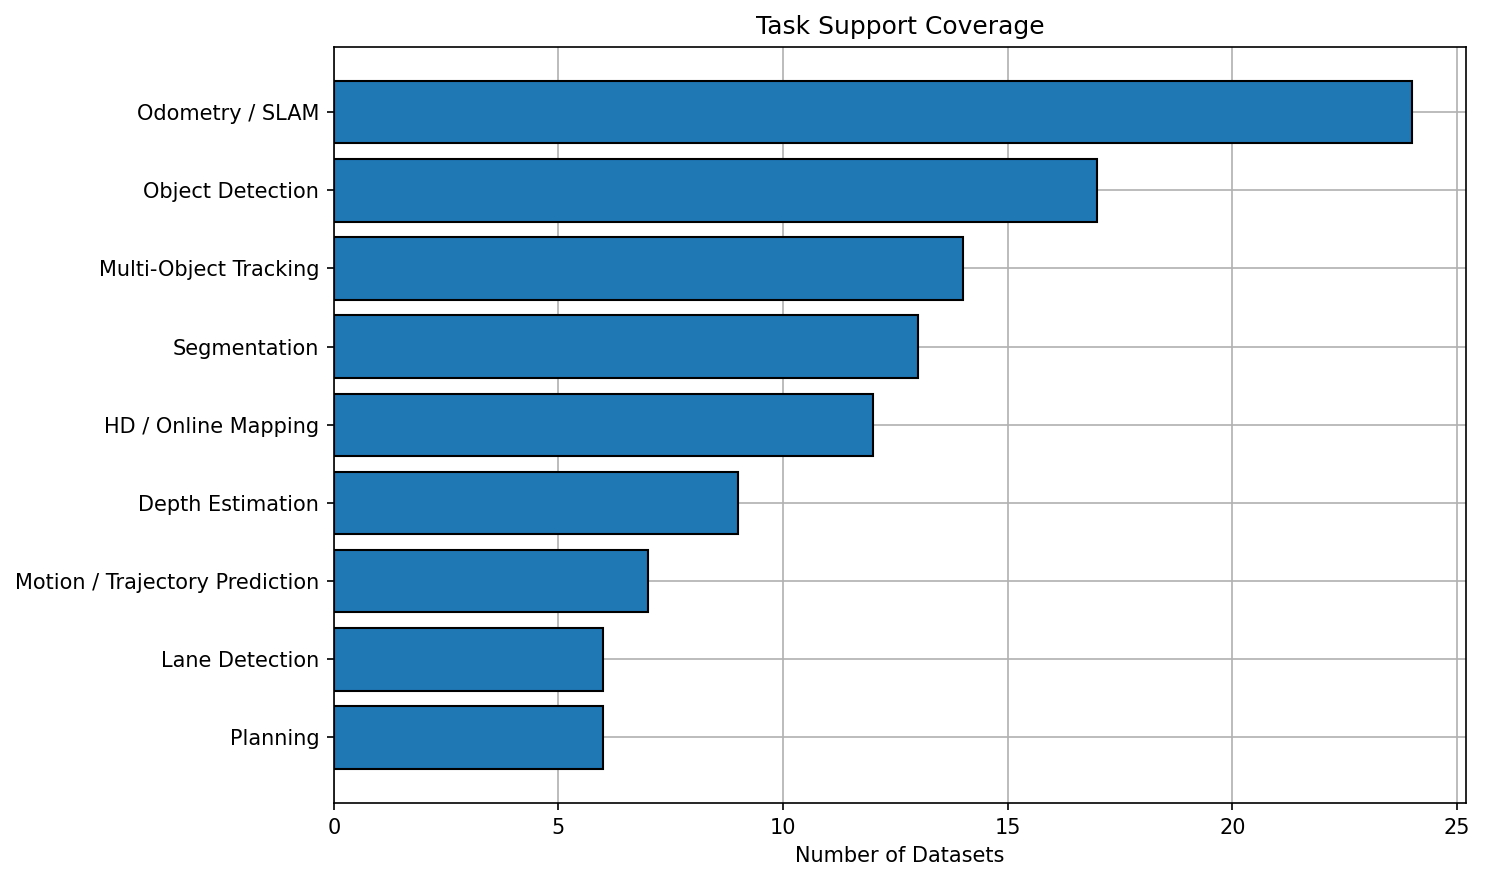
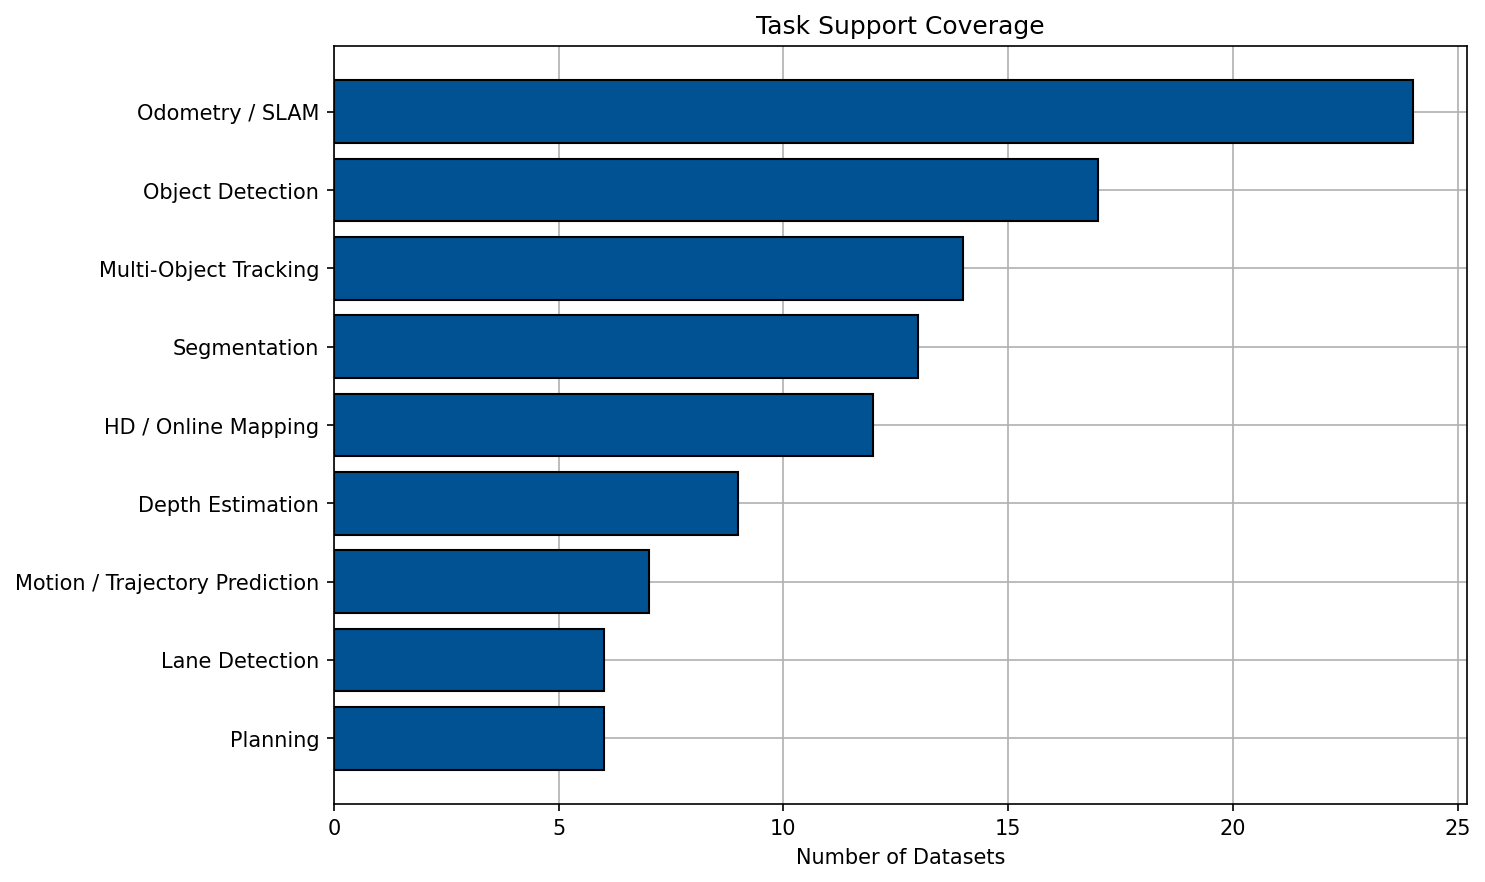
TUM Color (Total + Filtered)

diff --git a/dataset/filtered_dataset_analysis/07_lidar_beam.py b/dataset/filtered_dataset_analysis/07_lidar_beam.py
@@ -1,14 +1,13 @@
 import pandas as pd
 import matplotlib.pyplot as plt
-import os
+import os, sys
 from collections import Counter
+sys.path.append(os.path.join(os.path.dirname(os.path.abspath(__file__)), '..'))
+from tum_colors import TUM_SECONDARY
 
 BASE_DIR = os.path.dirname(os.path.abspath(__file__))
 df = pd.read_csv(os.path.join(BASE_DIR, 'filtered_dataset_cleaned.csv'))
 
-# Count each beam value across all LiDARs in all datasets
-# 0 = no LiDAR, excluded
-# Values like '32; 64' mean one dataset has two LiDARs with 32 and 64 beams
 beam_counts = Counter()
 for val in df['lidar_beam'].dropna():
     if val == '0':
@@ -19,11 +18,10 @@ for val in df['lidar_beam'].dropna():
             beam_counts[int(b)] += 1
 
 sorted_counts = dict(sorted(beam_counts.items()))
-
 labels = [str(k) for k in sorted_counts.keys()]
 
 plt.figure(figsize=(10, 6))
-plt.bar(labels, list(sorted_counts.values()), edgecolor='black')
+plt.bar(labels, list(sorted_counts.values()), edgecolor='black', color=TUM_SECONDARY['blue2'])
 plt.title('LiDAR Beam Count Distribution')
 plt.xlabel('Number of Beams')
 plt.ylabel('Count')
@@ -36,7 +34,3 @@ out = os.path.join(BASE_DIR, 'filtered_dataset_analysis_figures', '07_lidar_beam
 plt.savefig(out, dpi=150, bbox_inches='tight')
 plt.show()
 print(f'Saved → {out}')
-
-
-
-

diff --git a/dataset/filtered_dataset_analysis/08_temporal.py b/dataset/filtered_dataset_analysis/08_temporal.py
@@ -1,6 +1,8 @@
 import pandas as pd
 import matplotlib.pyplot as plt
-import os
+import os, sys
+sys.path.append(os.path.join(os.path.dirname(os.path.abspath(__file__)), '..'))
+from tum_colors import TUM_SECONDARY
 
 BASE_DIR = os.path.dirname(os.path.abspath(__file__))
 df = pd.read_csv(os.path.join(BASE_DIR, 'filtered_dataset_cleaned.csv'))
@@ -8,9 +10,15 @@ df = pd.read_csv(os.path.join(BASE_DIR, 'filtered_dataset_cleaned.csv'))
 counts = df['temporal'].value_counts().sort_index()
 labels = {0: 'Static', 1: 'Video'}
 names = [labels[k] for k in counts.index]
+pie_colors = [TUM_SECONDARY['light_gray'], TUM_SECONDARY['blue2']]
+DARK_COLORS = {TUM_SECONDARY['blue2']}
 
 plt.figure()
-plt.pie(counts.values, labels=names, autopct='%1.1f%%', wedgeprops={'edgecolor': 'black'}, colors=['C1', 'C0'])
+wedges, texts, autotexts = plt.pie(counts.values, labels=names, autopct='%1.1f%%',
+                                    colors=pie_colors,
+                                    wedgeprops={'edgecolor': 'black'})
+for i, autotext in enumerate(autotexts):
+    autotext.set_color('white' if pie_colors[i] in DARK_COLORS else 'black')
 plt.title('Temporal Coverage (Video vs Static)')
 plt.tight_layout()
 

diff --git a/dataset/filtered_dataset_analysis/09a_full_citation.py b/dataset/filtered_dataset_analysis/09a_full_citation.py
@@ -1,21 +1,24 @@
 import pandas as pd
 import matplotlib.pyplot as plt
-import os
+import os, sys
+sys.path.append(os.path.join(os.path.dirname(os.path.abspath(__file__)), '..'))
+from tum_colors import TUM_SECONDARY
 
 BASE_DIR = os.path.dirname(os.path.abspath(__file__))
 df = pd.read_csv(os.path.join(BASE_DIR, 'filtered_dataset_cleaned.csv'))
 df_sorted = df[['dataset', 'citation']].dropna().sort_values('citation')
 
 plt.figure(figsize=(15, 10))
-plt.barh(df_sorted['dataset'], df_sorted['citation'], edgecolor='black')
-plt.xscale('log')
-plt.title('Citation Count per Dataset (Log Scale)')
-plt.xlabel('Number of Citations (log)')
+plt.barh(df_sorted['dataset'], df_sorted['citation'],
+         edgecolor='black', color=TUM_SECONDARY['blue2'])
+plt.xlim(0, 22000)
+plt.title('Citation Count per Dataset')
+plt.xlabel('Number of Citations')
 plt.grid(True)
 plt.gca().set_axisbelow(True)
 plt.tight_layout()
 
-out = os.path.join(BASE_DIR, 'filtered_dataset_analysis_figures', '09_citation.png')
+out = os.path.join(BASE_DIR, 'filtered_dataset_analysis_figures', '09a_citation_full.png')
 plt.savefig(out, dpi=150, bbox_inches='tight')
 plt.show()
 print(f'Saved → {out}')

diff --git a/dataset/filtered_dataset_analysis/09b_zoomed_citation.py b/dataset/filtered_dataset_analysis/09b_zoomed_citation.py
@@ -1,0 +1,28 @@
+import pandas as pd
+import matplotlib.pyplot as plt
+import os, sys
+sys.path.append(os.path.join(os.path.dirname(os.path.abspath(__file__)), '..'))
+from tum_colors import TUM_SECONDARY
+
+BASE_DIR = os.path.dirname(os.path.abspath(__file__))
+df = pd.read_csv(os.path.join(BASE_DIR, 'filtered_dataset_cleaned.csv'))
+df_sorted = df[['dataset', 'citation']].dropna().sort_values('citation')
+
+# Exclude top 4 dominant datasets for readability
+EXCLUDE = {'KITTI', 'nuScenes', 'Waymo Open Dataset', 'BDD100K (Berkley Deep Drive 100k)', 'Oxford RobotCar', 'KITTI-360'}
+df_zoom = df_sorted[~df_sorted['dataset'].isin(EXCLUDE)]
+
+plt.figure(figsize=(15, 10))
+plt.barh(df_zoom['dataset'], df_zoom['citation'],
+         edgecolor='black', color=TUM_SECONDARY['blue2'])
+plt.xlim(0, 700)
+plt.title('Citation Count per Dataset (Excluding Top 6, Zoomed 0–700)')
+plt.xlabel('Number of Citations')
+plt.grid(True)
+plt.gca().set_axisbelow(True)
+plt.tight_layout()
+
+out = os.path.join(BASE_DIR, 'filtered_dataset_analysis_figures', '09b_citation_zoom.png')
+plt.savefig(out, dpi=150, bbox_inches='tight')
+plt.show()
+print(f'Saved → {out}')

diff --git a/dataset/filtered_dataset_analysis/06_weather.py b/dataset/filtered_dataset_analysis/06_weather.py
@@ -1,13 +1,13 @@
 import pandas as pd
 import matplotlib.pyplot as plt
-import os
+import os, sys
 from collections import Counter
+sys.path.append(os.path.join(os.path.dirname(os.path.abspath(__file__)), '..'))
+from tum_colors import TUM_SECONDARY
 
 BASE_DIR = os.path.dirname(os.path.abspath(__file__))
 df = pd.read_csv(os.path.join(BASE_DIR, 'filtered_dataset_cleaned.csv'))
 
-# Count how many datasets include each weather type
-# Unknown entries are excluded
 weather_counts = Counter()
 for val in df['weather'].dropna():
     if val == 'Unknown':
@@ -15,11 +15,10 @@ for val in df['weather'].dropna():
     for w in val.split(';'):
         weather_counts[w.strip()] += 1
 
-# Sort ascending for horizontal bar
 sorted_counts = dict(sorted(weather_counts.items(), key=lambda x: x[1]))
 
 plt.figure(figsize=(10, 5))
-plt.barh(list(sorted_counts.keys()), list(sorted_counts.values()), edgecolor='black')
+plt.barh(list(sorted_counts.keys()), list(sorted_counts.values()), edgecolor='black', color=TUM_SECONDARY['blue2'])
 plt.title('Number of Datasets per Weather Condition')
 plt.xlabel('Number of Datasets')
 plt.grid(True)

diff --git a/dataset/filtered_dataset_analysis/05_time_of_day.py b/dataset/filtered_dataset_analysis/05_time_of_day.py
@@ -1,17 +1,24 @@
 import pandas as pd
 import matplotlib.pyplot as plt
-import os
+import os, sys
+sys.path.append(os.path.join(os.path.dirname(os.path.abspath(__file__)), '..'))
+from tum_colors import TUM_SECONDARY
 
 BASE_DIR = os.path.dirname(os.path.abspath(__file__))
 df = pd.read_csv(os.path.join(BASE_DIR, 'filtered_dataset_cleaned.csv'))
 
 counts = df['time_of_day'].value_counts()
-
-plt.figure()
 label_map = {'Day': 'Day', 'Day; Night': 'Day & Night'}
 labels = [label_map.get(l, l) for l in counts.index]
+pie_colors = [TUM_SECONDARY['blue2'], TUM_SECONDARY['light_gray']]
+DARK_COLORS = {TUM_SECONDARY['blue2']}
 
-plt.pie(counts.values, labels=labels, autopct='%1.1f%%', wedgeprops={'edgecolor': 'black'})
+plt.figure()
+wedges, texts, autotexts = plt.pie(counts.values, labels=labels, autopct='%1.1f%%',
+                                    colors=pie_colors,
+                                    wedgeprops={'edgecolor': 'black'})
+for i, autotext in enumerate(autotexts):
+    autotext.set_color('white' if pie_colors[i] in DARK_COLORS else 'black')
 plt.title('Time of Day Coverage')
 plt.tight_layout()
 

diff --git a/dataset/filtered_dataset_analysis/04_task_support.py b/dataset/filtered_dataset_analysis/04_task_support.py
@@ -1,6 +1,8 @@
 import pandas as pd
 import matplotlib.pyplot as plt
-import os
+import os, sys
+sys.path.append(os.path.join(os.path.dirname(os.path.abspath(__file__)), '..'))
+from tum_colors import TUM_SECONDARY
 
 BASE_DIR = os.path.dirname(os.path.abspath(__file__))
 df = pd.read_csv(os.path.join(BASE_DIR, 'filtered_dataset_cleaned.csv'))
@@ -21,7 +23,7 @@ counts = {label: df[col].sum() for col, label in task_cols.items()}
 counts = dict(sorted(counts.items(), key=lambda x: x[1]))
 
 plt.figure(figsize=(10, 6))
-plt.barh(list(counts.keys()), list(counts.values()), edgecolor='black')
+plt.barh(list(counts.keys()), list(counts.values()), edgecolor='black', color=TUM_SECONDARY['blue2'])
 plt.title('Task Support Coverage')
 plt.xlabel('Number of Datasets')
 plt.grid(True)

diff --git a/dataset/filtered_dataset_analysis/01_camera_count.py b/dataset/filtered_dataset_analysis/01_camera_count.py
@@ -1,6 +1,8 @@
 import pandas as pd
 import matplotlib.pyplot as plt
-import os
+import os, sys
+sys.path.append(os.path.join(os.path.dirname(os.path.abspath(__file__)), '..'))
+from tum_colors import TUM_SECONDARY
 
 BASE_DIR = os.path.dirname(os.path.abspath(__file__))
 df = pd.read_csv(os.path.join(BASE_DIR, 'filtered_dataset_cleaned.csv'))
@@ -8,7 +10,7 @@ df = pd.read_csv(os.path.join(BASE_DIR, 'filtered_dataset_cleaned.csv'))
 counts = df['camera'].value_counts().sort_index()
 
 plt.figure(figsize=(5, 6))
-plt.bar(counts.index, counts.values, edgecolor='black')
+plt.bar(counts.index, counts.values, edgecolor='black', color=TUM_SECONDARY['blue2'])
 plt.title('Number of Cameras per Dataset')
 plt.xlabel('Number of Cameras')
 plt.ylabel('Number of Datasets')

diff --git a/dataset/filtered_dataset_analysis/02_lidar_count.py b/dataset/filtered_dataset_analysis/02_lidar_count.py
@@ -1,6 +1,8 @@
 import pandas as pd
 import matplotlib.pyplot as plt
-import os
+import os, sys
+sys.path.append(os.path.join(os.path.dirname(os.path.abspath(__file__)), '..'))
+from tum_colors import TUM_SECONDARY
 
 BASE_DIR = os.path.dirname(os.path.abspath(__file__))
 df = pd.read_csv(os.path.join(BASE_DIR, 'filtered_dataset_cleaned.csv'))
@@ -8,7 +10,7 @@ df = pd.read_csv(os.path.join(BASE_DIR, 'filtered_dataset_cleaned.csv'))
 counts = df['lidar'].value_counts().sort_index()
 
 plt.figure(figsize=(5, 6))
-plt.bar(counts.index, counts.values, edgecolor='black')
+plt.bar(counts.index, counts.values, edgecolor='black', color=TUM_SECONDARY['blue2'])
 plt.title('Number of LiDARs per Dataset')
 plt.xlabel('Number of LiDARs')
 plt.ylabel('Number of Datasets')

diff --git a/dataset/filtered_dataset_analysis/03_radar_count.py b/dataset/filtered_dataset_analysis/03_radar_count.py
@@ -1,6 +1,8 @@
 import pandas as pd
 import matplotlib.pyplot as plt
-import os
+import os, sys
+sys.path.append(os.path.join(os.path.dirname(os.path.abspath(__file__)), '..'))
+from tum_colors import TUM_SECONDARY
 
 BASE_DIR = os.path.dirname(os.path.abspath(__file__))
 df = pd.read_csv(os.path.join(BASE_DIR, 'filtered_dataset_cleaned.csv'))
@@ -8,7 +10,7 @@ df = pd.read_csv(os.path.join(BASE_DIR, 'filtered_dataset_cleaned.csv'))
 counts = df['radar'].value_counts().sort_index()
 
 plt.figure(figsize=(5, 6))
-plt.bar(counts.index, counts.values, edgecolor='black')
+plt.bar(counts.index, counts.values, edgecolor='black', color=TUM_SECONDARY['blue2'])
 plt.title('Number of Radars per Dataset')
 plt.xlabel('Number of Radars')
 plt.ylabel('Number of Datasets')
